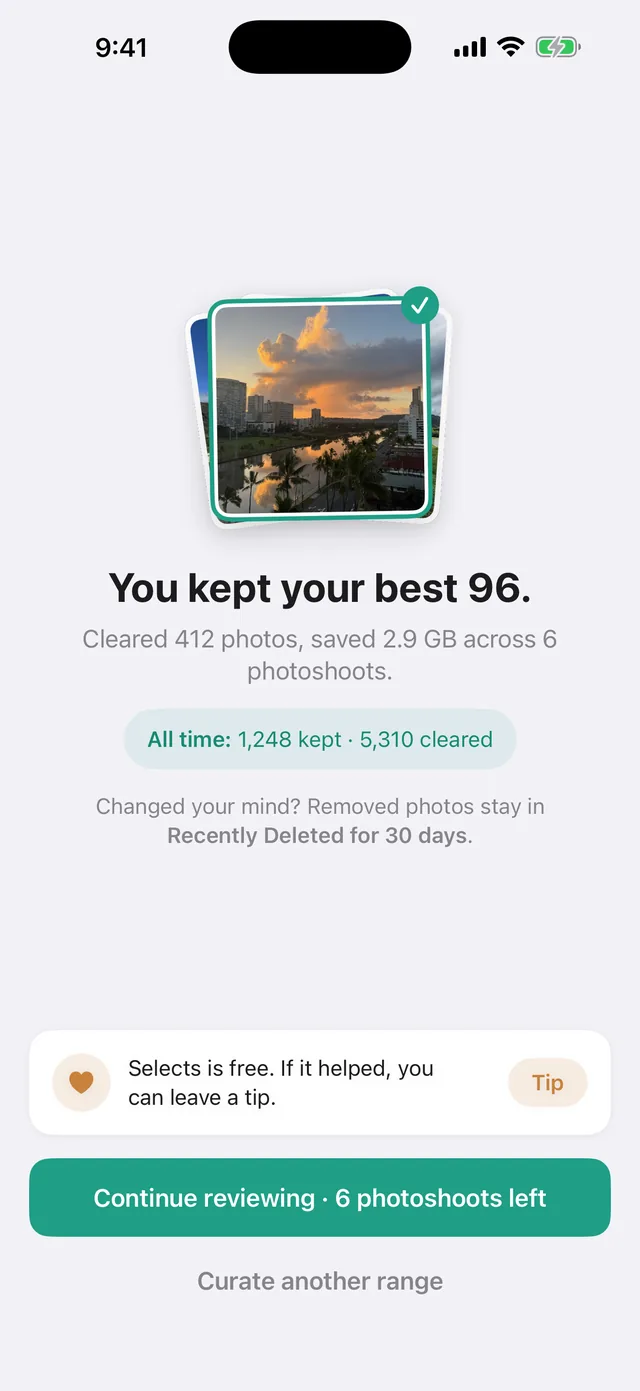
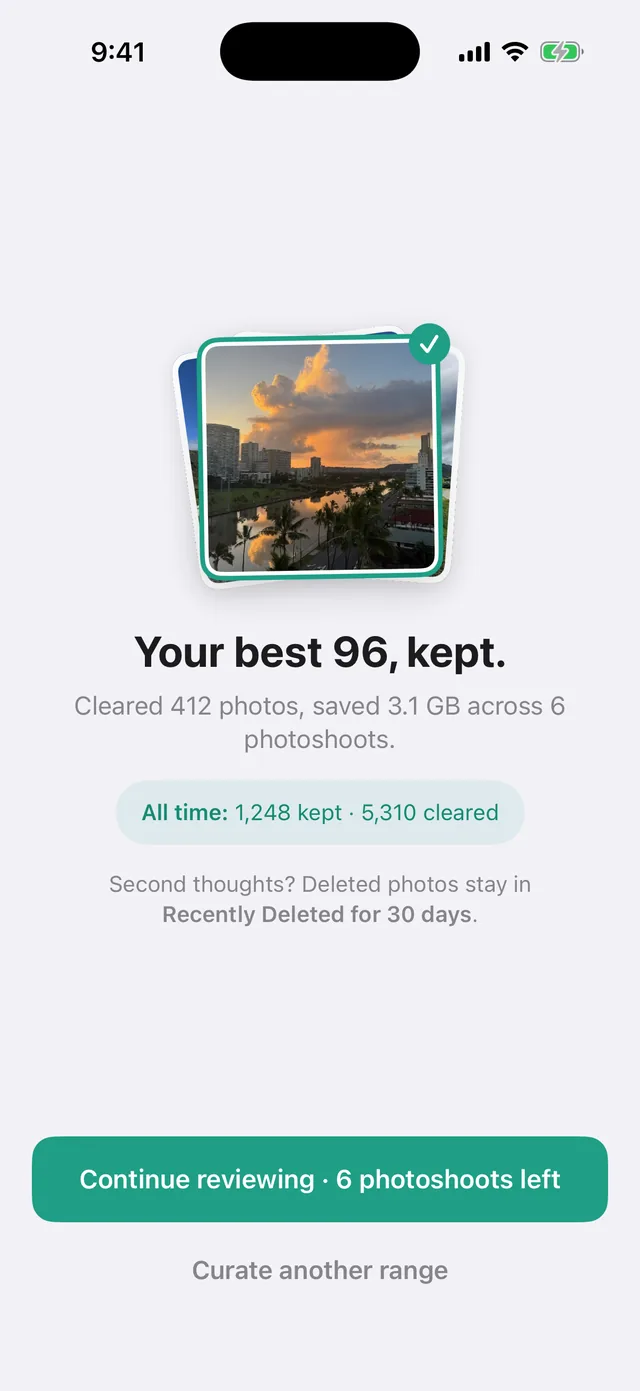
Website: tip-free Selects Done screenshot + alt text

diff --git a/app/design/website/selects.html b/app/design/website/selects.html
@@ -255,7 +255,7 @@
 
         <!-- 3 · done -->
         <div class="flow-row">
-          <div class="flow-phone"><div class="device d-flow"><img src="/selects/img/done.webp" width="640" height="1391" loading="lazy" alt="Done screen: you kept your best 96, cleared 412 photos, saved 2.9 GB"></div></div>
+          <div class="flow-phone"><div class="device d-flow"><img src="/selects/img/done.webp" width="640" height="1391" loading="lazy" alt="Done screen: your best 96 kept, 412 photos cleared, 3.1 GB saved"></div></div>
           <div class="flow-copy">
             <span class="flow-num">3</span>
             <h3>Your best few, and the space back.</h3>

diff --git a/app/design/website/site/selects/index.html b/app/design/website/site/selects/index.html
@@ -308,7 +308,7 @@
 
         <!-- 3 · done -->
         <div class="flow-row">
-          <div class="flow-phone"><div class="device d-flow"><img src="/selects/img/done.webp" width="640" height="1391" loading="lazy" alt="Done screen: you kept your best 96, cleared 412 photos, saved 2.9 GB"></div></div>
+          <div class="flow-phone"><div class="device d-flow"><img src="/selects/img/done.webp" width="640" height="1391" loading="lazy" alt="Done screen: your best 96 kept, 412 photos cleared, 3.1 GB saved"></div></div>
           <div class="flow-copy">
             <span class="flow-num">3</span>
             <h3>Your best few, and the space back.</h3>
